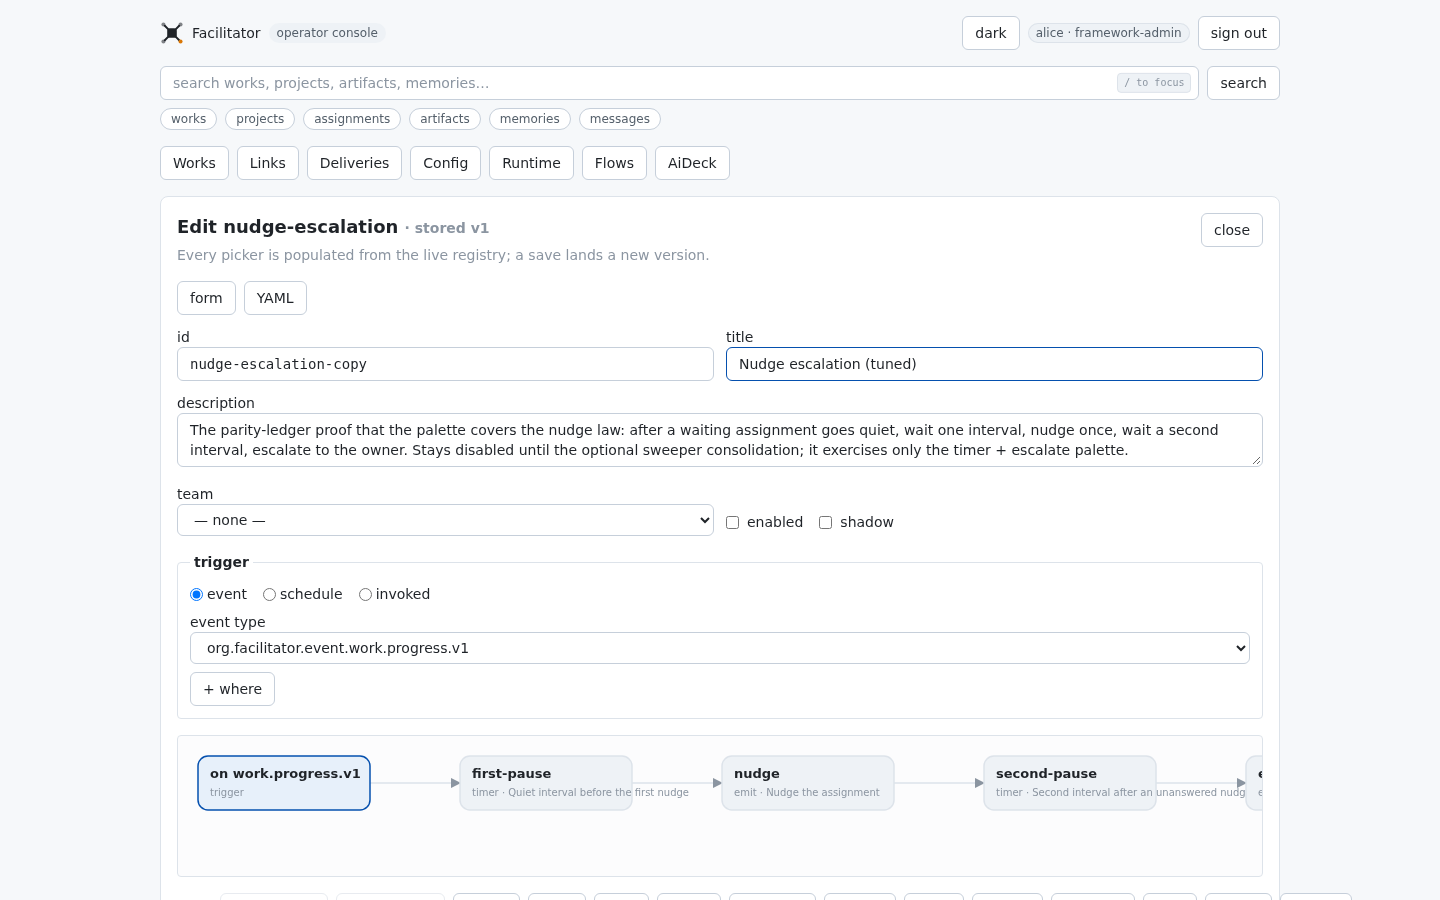
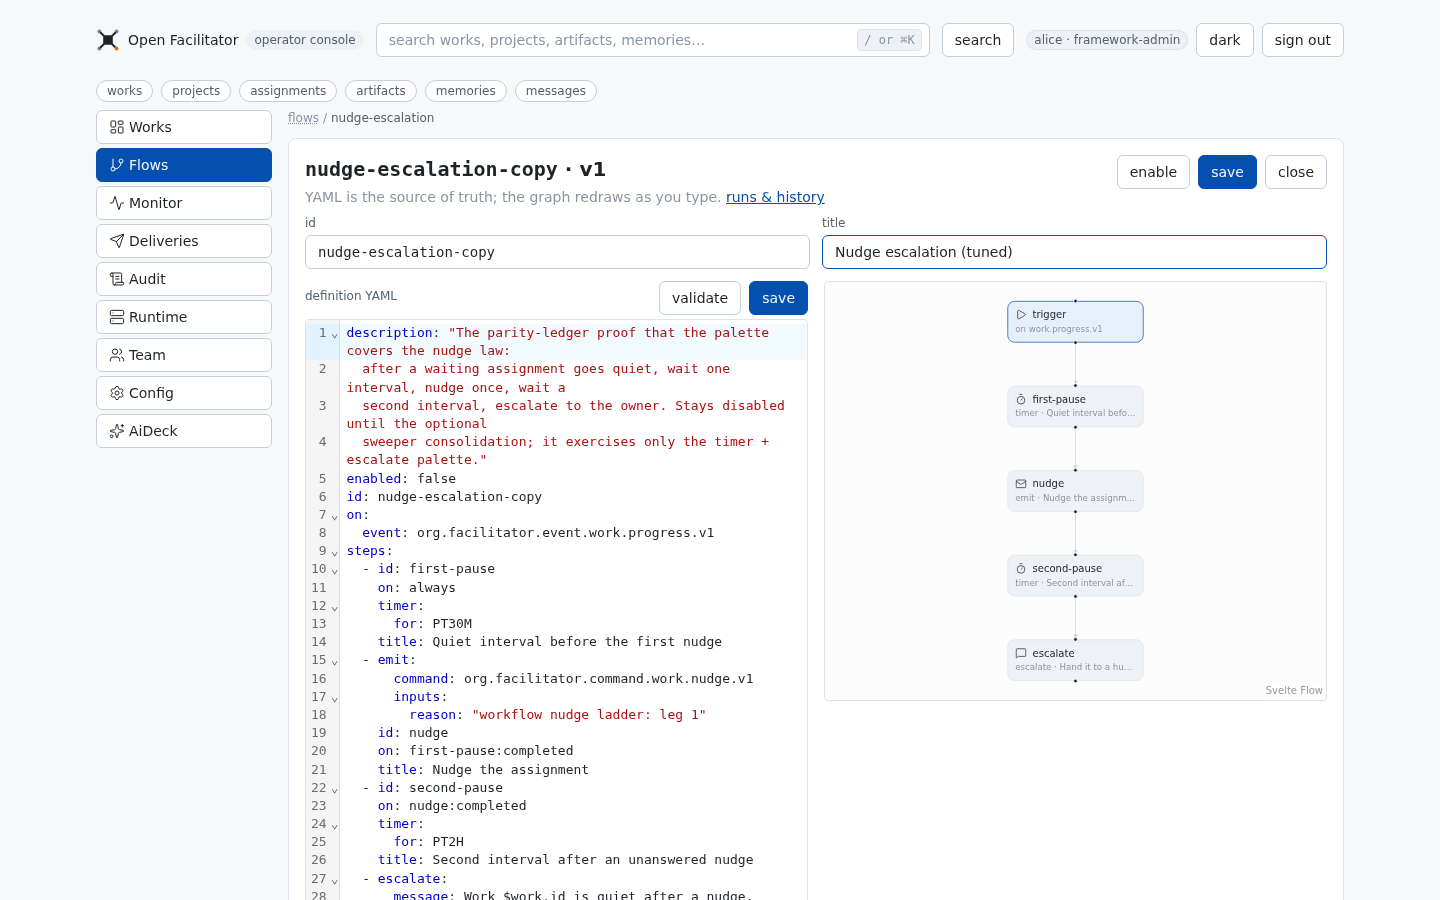
docs(site): the documentation round - honest shots, linkable rail, a palette that explains itself
Screenshots: the site's console pictures are produced by the E2E
walkthrough itself; the inspector shot now waits for the filled
timeline (it used to capture 'loading...'), both work-plane shots got
their dark twins shipped, and the captions describe what the seeded
walkthrough actually shows instead of a fictional richer run.

Navigation: the doc-page TOC emitted '##/route?anchor' - the doubled
hash read as a landing hash, so clicking a section did nothing; hrefs
are single-hash now and scroll-verify green. The architecture page's
raw /docs/... links and the explorer sheet's 'Read more' links route
through the SPA hash router; the cookbook's phantom #/flows links
point at the console tour instead. A dist-wide audit finds zero broken
internal routes, anchors, or images.

Reference: durations are explained where a human meets them first -
prose in the palette intro ('PT30M is thirty minutes') and the
generated palette table, which expands schema $refs to their named
type plus a human gloss instead of a bare 'object'. GitHub autolinks
now require the path to exist in the repo, so globs and placeholders
render as code instead of 404ing.

Console docs list the rail as it actually ships (Team replaced the
stale Links entry; Monitor is runs + the health strip; AiDeck is a
drawer), and the section title says what it lists.

Verified: eslint + prettier clean, site build green, admin-e2e 12/12
with fresh light+dark shots, TOC clicks and sheet links driven in the
browser.

diff --git a/site/src/js/app.js b/site/src/js/app.js
@@ -68,7 +68,10 @@
       [...hs]
         .map(
           (h) =>
-            `<a href="#${location.hash.split(/[?]/)[0]}?${h.id}" data-anchor="${h.id}">${esc(h.textContent)}</a>`,
+            // location.hash already carries the '#': one more would produce
+      // "##/route?anchor", which the router reads as a landing hash and
+      // the click silently does nothing.
+      `<a href="${location.hash.split(/[?]/)[0]}?${h.id}" data-anchor="${h.id}">${esc(h.textContent)}</a>`,
         )
         .join("")
     );
@@ -482,7 +485,7 @@
           : "") +
         (n.artifact ? `<p class="arch-art">${esc(n.artifact)}</p>` : "") +
         `<p class="arch-io"><b>Receives from</b> ${links(inb)}<br><b>Sends to</b> ${links(out)}</p>` +
-        (n.docs ? `<p><a class="arch-more" href="#${n.docs}">Read more →</a></p>` : "");
+        (n.docs ? `<p><a class="arch-more" href="${n.docs}">Read more →</a></p>` : "");
       panel
         .querySelectorAll("[data-goto]")
         .forEach((b) => b.addEventListener("click", () => select(b.dataset.goto)));

diff --git a/src/facilitator/ui/src/components/FlowCanvas.svelte b/src/facilitator/ui/src/components/FlowCanvas.svelte
@@ -65,7 +65,7 @@
 </script>
 
 <div
-  class="h-[420px] overflow-hidden rounded border border-edge bg-sunken/20"
+  class="flow-canvas h-[420px] overflow-hidden rounded border border-edge bg-sunken/20"
   data-testid="flow-graph">
   <SvelteFlow
     {nodes}
@@ -80,3 +80,18 @@
     onpaneclick={() => onselect(null)}
   />
 </div>
+
+<style>
+  /* xyflow sizes edge labels to the edge bbox and clips overflow - on
+     short legs that truncates the text to a stray initial. Size to
+     content; colors keep the site theme (light/dark both legible). */
+  .flow-canvas :global(.svelte-flow__edge-label) {
+    width: max-content !important;
+    max-width: none !important;
+    height: max-content !important;
+    overflow: visible !important;
+    text-overflow: clip !important;
+    white-space: nowrap;
+    border-radius: 4px;
+  }
+</style>

diff --git a/tests/Facilitator.E2E/AdminInspectorTests.cs b/tests/Facilitator.E2E/AdminInspectorTests.cs
@@ -86,8 +86,10 @@ public sealed class AdminInspectorTests(PostgresFixture fixture)
         await page.GetByTestId($"hit-works-{workId.ToString()[..8]}").ClickAsync();
 
         await Expect(page.GetByTestId("work-inspector")).ToBeVisibleAsync();
-        await ShootAsync(page, "console-work.png");
+        // The site screenshot must show a FILLED inspector: wait for the
+        // timeline's first row before pressing the shutter.
         await Expect(page.GetByTestId("timeline-created")).ToBeVisibleAsync();
+        await ShootAsync(page, "console-work.png");
         var shortId = approvalId.ToString()[..8];
         await Expect(page.GetByTestId($"approval-state-{shortId}")).ToHaveTextAsync("pending");
 

diff --git a/site/src/pages/console.md b/site/src/pages/console.md
@@ -25,39 +25,25 @@ fencing generations, its approvals, its result manifests, and the
 complete event timeline — every state change with actor, timestamp, and
 payload.
 
-![Searching Works in the console](console-explorer.png)
-_Search “analyze the reference”, and the kernel answers with matching
-Works, a live fleet summary, and throughput metrics._
+![Searching the console](console-explorer.png)
+_Search an objective, and the hit opens the Work it belongs to —
+artifacts, memories, and messages are the other search sections. The
+left rail switches surfaces; every one of them is a URL._
 
 ![The Work inspector](console-work.png)
-_One Work's inspector: assignment completed on the team's Gateway,
-result manifest available with digest-verified artifacts, the full
-timeline underneath — `created`, routing, two artifact filings, a memory
-candidate._
+_The same Work opened: a pending approval names its approver, the
+timeline rows carry actor and timestamp, and the approve button is the
+same audited write the API would take._
 
 This is the “who did what, when, and who allowed it” view — it is why
 teams keep the kernel around after the novelty of agents fades.
 
-## Fleet views
+## Every surface on the rail
 
-Under the search box, the surfaces a triage needs:
+Under the search box, what each rail entry opens:
 
 - **Works** — the queue: everything, newest first, filterable by state;
   a team-scoped operator automatically sees only their teams' works.
-- **Audit** — the decision spine, filterable by allow/deny, actor,
-  action, and correlation id, with a CSV export.
-- **Links** — every team Gateway currently dialled in: endpoint id,
-  session age, last acknowledged event. The honest rule the view
-  follows: the database lease is the only authority — a stale socket
-  means offline, never “probably up”.
-- **Deliveries** — the outbound ledger: what the kernel sent, what was
-  acknowledged, what is a poison message. Replay one; try to replay it
-  twice; the ledger refuses the second time.
-- **Runtime** — which replica answers, the provisioning ledger, and
-  manual sweeps: forcing a sweeper demands a change reason and audits
-  the trigger, like every other human act on live state.
-- **Config** — stored operator intents, edited with versioned
-  `If-Match` writes, each change audited with a reason.
 - **Flows** — the workflow plane: every definition (live, shadow, or
   off), every run it performed, and an editor that draws the flow you
   are authoring. Open a run and the same picture wears its state — the
@@ -65,12 +51,28 @@ Under the search box, the surfaces a triage needs:
   with pause, skip, retry, and cancel fenced by what the run's status
   legally allows. Authoring lives here too:
   [Authoring flows](/workflows).
-- **AiDeck** — a chat surface for operator identities: ask “what's
-  stuck?” and the answer shows the reads it made to get there —
-  GETs the asking operator could run themselves, never more than that
-  role can reach. Proposals carry a human summary, a folded body, an
-  optional decision note, and a link to the audit row they produce; a
-  proposal nobody confirms visibly expires.
+- **Monitor** — running workflow instances and the fleet health strip:
+  replica status, queue depth, link uptime. The honest rule the strip
+  follows: the database lease is the only authority — a stale socket
+  means offline, never “probably up”.
+- **Deliveries** — the outbound ledger: what the kernel sent, what was
+  acknowledged, what is a poison message. Replay one; try to replay it
+  twice; the ledger refuses the second time.
+- **Audit** — the decision spine, filterable by allow/deny, actor,
+  action, and correlation id, with a CSV export.
+- **Runtime** — which replica answers, the provisioning ledger, and
+  manual sweeps: forcing a sweeper demands a change reason and audits
+  the trigger, like every other human act on live state.
+- **Team** — every team Gateway dialled in: endpoint id, session age,
+  last acknowledged event, enrollment and link-token revocation.
+- **Config** — the live routing policy: stored operator intents, edited
+  with versioned `If-Match` writes, each change audited with a reason.
+- **AiDeck** — a drawer, not a screen: a chat surface for operator
+  identities. Ask “what's stuck?” and the answer shows the reads it
+  made to get there — GETs the asking operator could run themselves,
+  never more than that role can reach. Proposals carry a human summary,
+  a folded body, an optional decision note, and a link to the audit row
+  they produce; a proposal nobody confirms visibly expires.
 
 ## What the console deliberately is not
 

diff --git a/site/src/pages/workflows.md b/site/src/pages/workflows.md
@@ -27,11 +27,16 @@ exactly which rule it broke when it refuses.
 
 Each step declares exactly one payload:
 
+Durations everywhere in a flow are ISO-8601: `PT30M` is thirty
+minutes, `PT2H` two hours, `P1D` one day, `PT1H30M` ninety minutes.
+Only days, hours, minutes, and seconds are allowed, and a zero-length
+duration is refused by the validator.
+
 | step | what it does |
 | --- | --- |
 | `emit` | append one command (a known wire command, or a capability for the router to place) |
 | `wait` | park until a matching event arrives, with a timeout branch |
-| `timer` | park for a duration, then continue (or branch on timeout) |
+| `timer` | park for a fixed duration (`for: "PT30M"`), then continue on the `always` edge — this is how you say "wait half an hour, then keep going" |
 | `approval` | ask named humans; resume on the decision |
 | `decide` | branch on a guard or a model verdict, with a mandatory fallback |
 | `select` | project values into the run's output |
